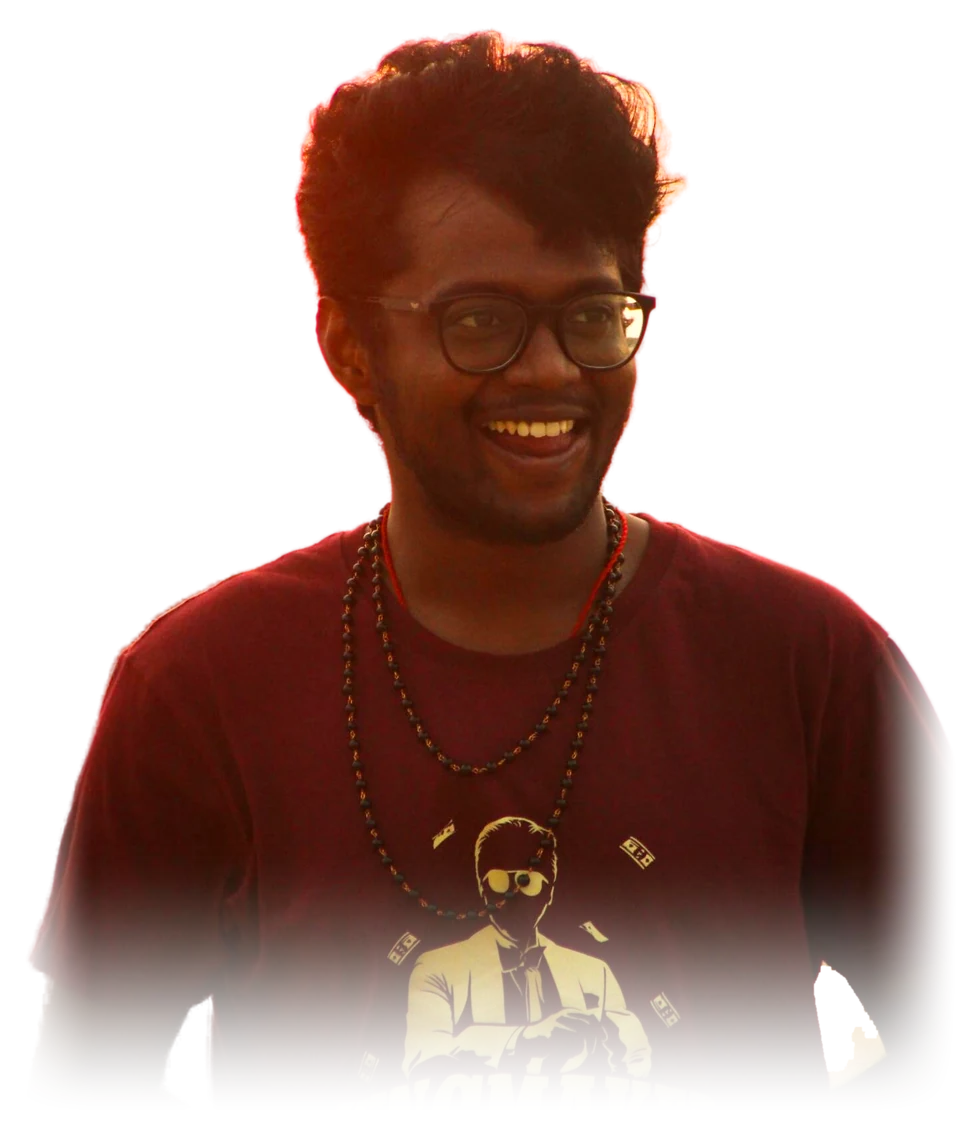
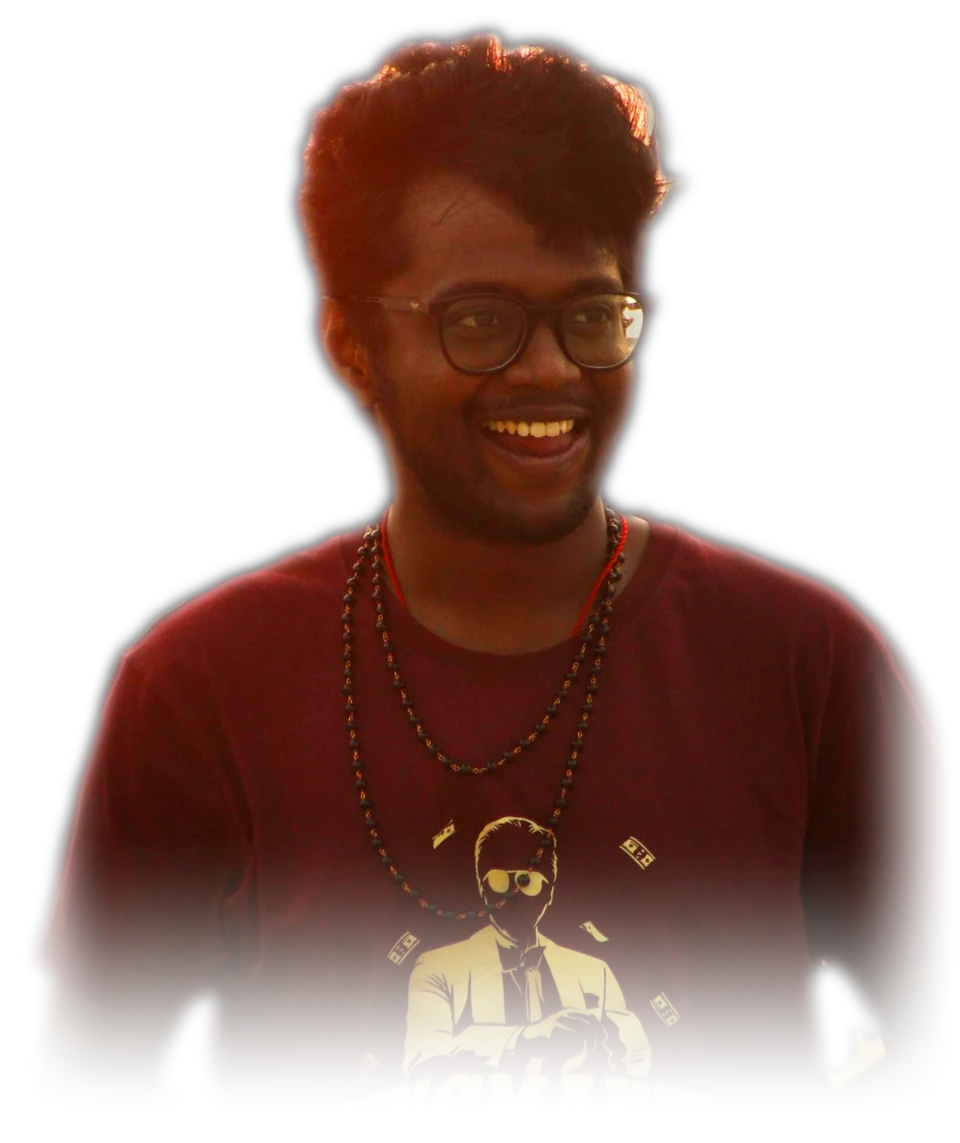
Ease pixels back into the photo; soften the portrait edge
Each cell now blends from its pixel into the real photo over about half a
second as it settles (and lets go quickly when pushed), and the masks are
scaled up smoothly so settled and moving areas blend instead of stepping.
The old photo fades out cell by cell during a change. The portrait cut-out
is feathered wide with its fringe darkened, so the outline melts into the
dark without a halo.

Changed region(s): [[0.0312, 0.0, 0.9688, 0.9186], [0.1875, 0.8574, 0.25, 0.9186], [0.1562, 0.888, 0.1875, 0.9186]]

diff --git a/particles.js b/particles.js
@@ -181,6 +181,9 @@
     // particle state: particle i always belongs to grid cell i
     let N = 0;
     let X, Y, VX, VY, HX, HY, CR, CG, CB, A, TR, TG, TB, TA, WAIT, NEW;
+    // REST: how far each cell has eased from pixel back into the photo (0 to 1);
+    // ROLD: the old photo's share of a cell, fading out after the ripple passes
+    let REST, ROLD;
     let NR, NG, NB, NA;   // the next picture, held until the ripple reaches each particle
 
     let floaters = [];    // hero: loose pixels drifting around the faded edges and corners
@@ -208,6 +211,7 @@
       X = f(); Y = f(); VX = f(); VY = f(); HX = f(); HY = f();
       CR = f(); CG = f(); CB = f(); A = f(); TR = f(); TG = f(); TB = f(); TA = f(); WAIT = f();
       NR = f(); NG = f(); NB = f(); NA = f(); NEW = new Uint8Array(N);
+      REST = f(); ROLD = f();
       for(let i = 0; i < N; i++){
         HX[i] = (i % gw + 0.5) * step;
         HY[i] = (((i / gw) | 0) + 0.5) * step;
@@ -293,7 +297,7 @@
     function drawMasked(off, maskCanvas, layer){
       const o = off.g;
       o.globalCompositeOperation = "copy";
-      o.imageSmoothingEnabled = false;
+      o.imageSmoothingEnabled = true;
       o.drawImage(maskCanvas, 0, 0, gw * step, gh * step);
       o.globalCompositeOperation = "source-in";
       o.drawImage(layer, 0, 0, W, H);
@@ -322,22 +326,32 @@
       const cx = W / 2, cy = H / 2;
       // friction scaled to the frame time, so slow screens settle as fast as quick ones
       const damp = Math.pow(0.84, dt), ease = 1 - Math.pow(0.86, dt), fade = 1 - Math.pow(0.9, dt);
-      const SOLID = 0xff000000 | 0;
+      // a settling pixel melts into the photo over about half a second; a cell that
+      // starts moving lets go of the photo quickly
+      const kIn = 1 - Math.pow(0.9, dt), kOut = 1 - Math.pow(0.62, dt), kOld = 1 - Math.pow(0.8, dt);
 
       uMove.fill(0); uNew.fill(0); uOld.fill(0);
-      let moving = 0, restingNew = 0, restingOld = 0, waiting = 0;
+      let moving = 0, showingNew = 0, showingOld = 0, waiting = 0;
       for(let i = 0; i < N; i++){
         // the ripple arrives: pop out away from where it started, then take the new colour
         if(WAIT[i] >= 0){
           waiting++;
           WAIT[i] -= ms;
           if(WAIT[i] < 0){
-            TR[i] = NR[i]; TG[i] = NG[i]; TB[i] = NB[i]; TA[i] = NA[i]; NEW[i] = 1;
+            TR[i] = NR[i]; TG[i] = NG[i]; TB[i] = NB[i]; TA[i] = NA[i];
+            // the old photo's share of this cell fades out rather than vanishing
+            if(!NEW[i]){ ROLD[i] = REST[i]; REST[i] = 0; }
+            NEW[i] = 1;
             const dx = HX[i] - rippleX, dy = HY[i] - rippleY, d = Math.sqrt(dx * dx + dy * dy) || 1;
             const kick = 2 + 3.5 * (1 - Math.min(1, d / rippleReach));
             VX[i] += (dx / d) * kick + (Math.random() - 0.5) * 2.5;
             VY[i] += (dy / d) * kick + (Math.random() - 0.5) * 2.5 - 1.2;
           }
+        }
+        if(ROLD[i] > 0){
+          ROLD[i] -= ROLD[i] * kOld;
+          if(ROLD[i] < 0.01) ROLD[i] = 0;
+          else { uOld[i] = ((ROLD[i] * 255) | 0) << 24; showingOld++; }
         }
         // empty cells of a cut-out have nothing to show; skip their physics
         if(TA[i] < 0.01 && A[i] < 0.01 && WAIT[i] < 0){ continue; }
@@ -360,17 +374,25 @@
         CR[i] += (TR[i] - CR[i]) * ease; CG[i] += (TG[i] - CG[i]) * ease; CB[i] += (TB[i] - CB[i]) * ease;
         const a = A[i] += (TA[i] - A[i]) * fade;
 
-        // at rest: back in its own cell, still, and done changing colour
+        // settled: back near its own cell, nearly still, and nearly done changing colour
         const off = Math.abs(x - HX[i]) + Math.abs(y - HY[i]);
-        const resting = off < 0.6 && vx * vx + vy * vy < 0.01 && Math.abs(a - TA[i]) < 0.03 &&
-          Math.abs(CR[i] - TR[i]) + Math.abs(CG[i] - TG[i]) + Math.abs(CB[i] - TB[i]) < 6;
-        if(resting){
-          if(NEW[i]){ uNew[i] = SOLID; restingNew++; }
-          else { uOld[i] = SOLID; restingOld++; }
-          continue;
+        const settled = off < 1.2 && vx * vx + vy * vy < 0.04 && Math.abs(a - TA[i]) < 0.06 &&
+          Math.abs(CR[i] - TR[i]) + Math.abs(CG[i] - TG[i]) + Math.abs(CB[i] - TB[i]) < 14;
+        let rest = REST[i];
+        rest += settled ? (1 - rest) * kIn : -rest * kOut;
+        if(rest > 0.995) rest = 1; else if(rest < 0.005) rest = 0;
+        REST[i] = rest;
+
+        // the photo's share of the cell
+        if(rest > 0){
+          const m = ((rest * 255) | 0) << 24;
+          if(NEW[i]){ uNew[i] = m; showingNew++; } else { uOld[i] = m; showingOld++; }
         }
+        if(rest === 1) continue;
         moving++;
-        if(a < 0.01) continue;
+        // the pixel's share, fading as the photo takes over
+        const pa = a * (1 - rest);
+        if(pa < 0.01) continue;
         const gx = (x / step) | 0, gy = (y / step) | 0;
         if(gx < 0 || gy < 0 || gx >= gw || gy >= gh) continue;
         // fast movers glow warm, like sparks
@@ -380,18 +402,18 @@
           const t = Math.min(1, (Math.sqrt(sp) - 0.6) / 6);
           r += (255 - r) * t; gg += (110 - gg) * t; b += (50 - b) * t;
         }
-        const j = gy * gw + gx, prev = uMove[j] >>> 24, al = (a * 255) | 0;
+        const j = gy * gw + gx, prev = uMove[j] >>> 24, al = (pa * 255) | 0;
         if(al >= prev) uMove[j] = (al << 24) | ((b | 0) << 16) | ((gg | 0) << 8) | (r | 0);
       }
-      if(morphing && !waiting && !restingOld){ morphing = false; oldLayer = null; }
+      if(morphing && !waiting && !showingOld){ morphing = false; oldLayer = null; }
 
       g.clearRect(0, 0, W, H);
-      if(!moving && !restingOld){
+      if(!moving && !showingOld){
         // everything at rest: the real picture, untouched
         g.drawImage(newLayer, 0, 0, W, H);
       } else {
-        if(restingOld && oldLayer){ bOld.g.putImageData(pOld, 0, 0); drawMasked(offA, bOld.c, oldLayer); }
-        if(restingNew){ bNew.g.putImageData(pNew, 0, 0); drawMasked(offB, bNew.c, newLayer); }
+        if(showingOld && oldLayer){ bOld.g.putImageData(pOld, 0, 0); drawMasked(offA, bOld.c, oldLayer); }
+        if(showingNew){ bNew.g.putImageData(pNew, 0, 0); drawMasked(offB, bNew.c, newLayer); }
         bMove.g.putImageData(pMove, 0, 0);
         g.imageSmoothingEnabled = false;
         g.drawImage(bMove.c, 0, 0, gw * step, gh * step);
